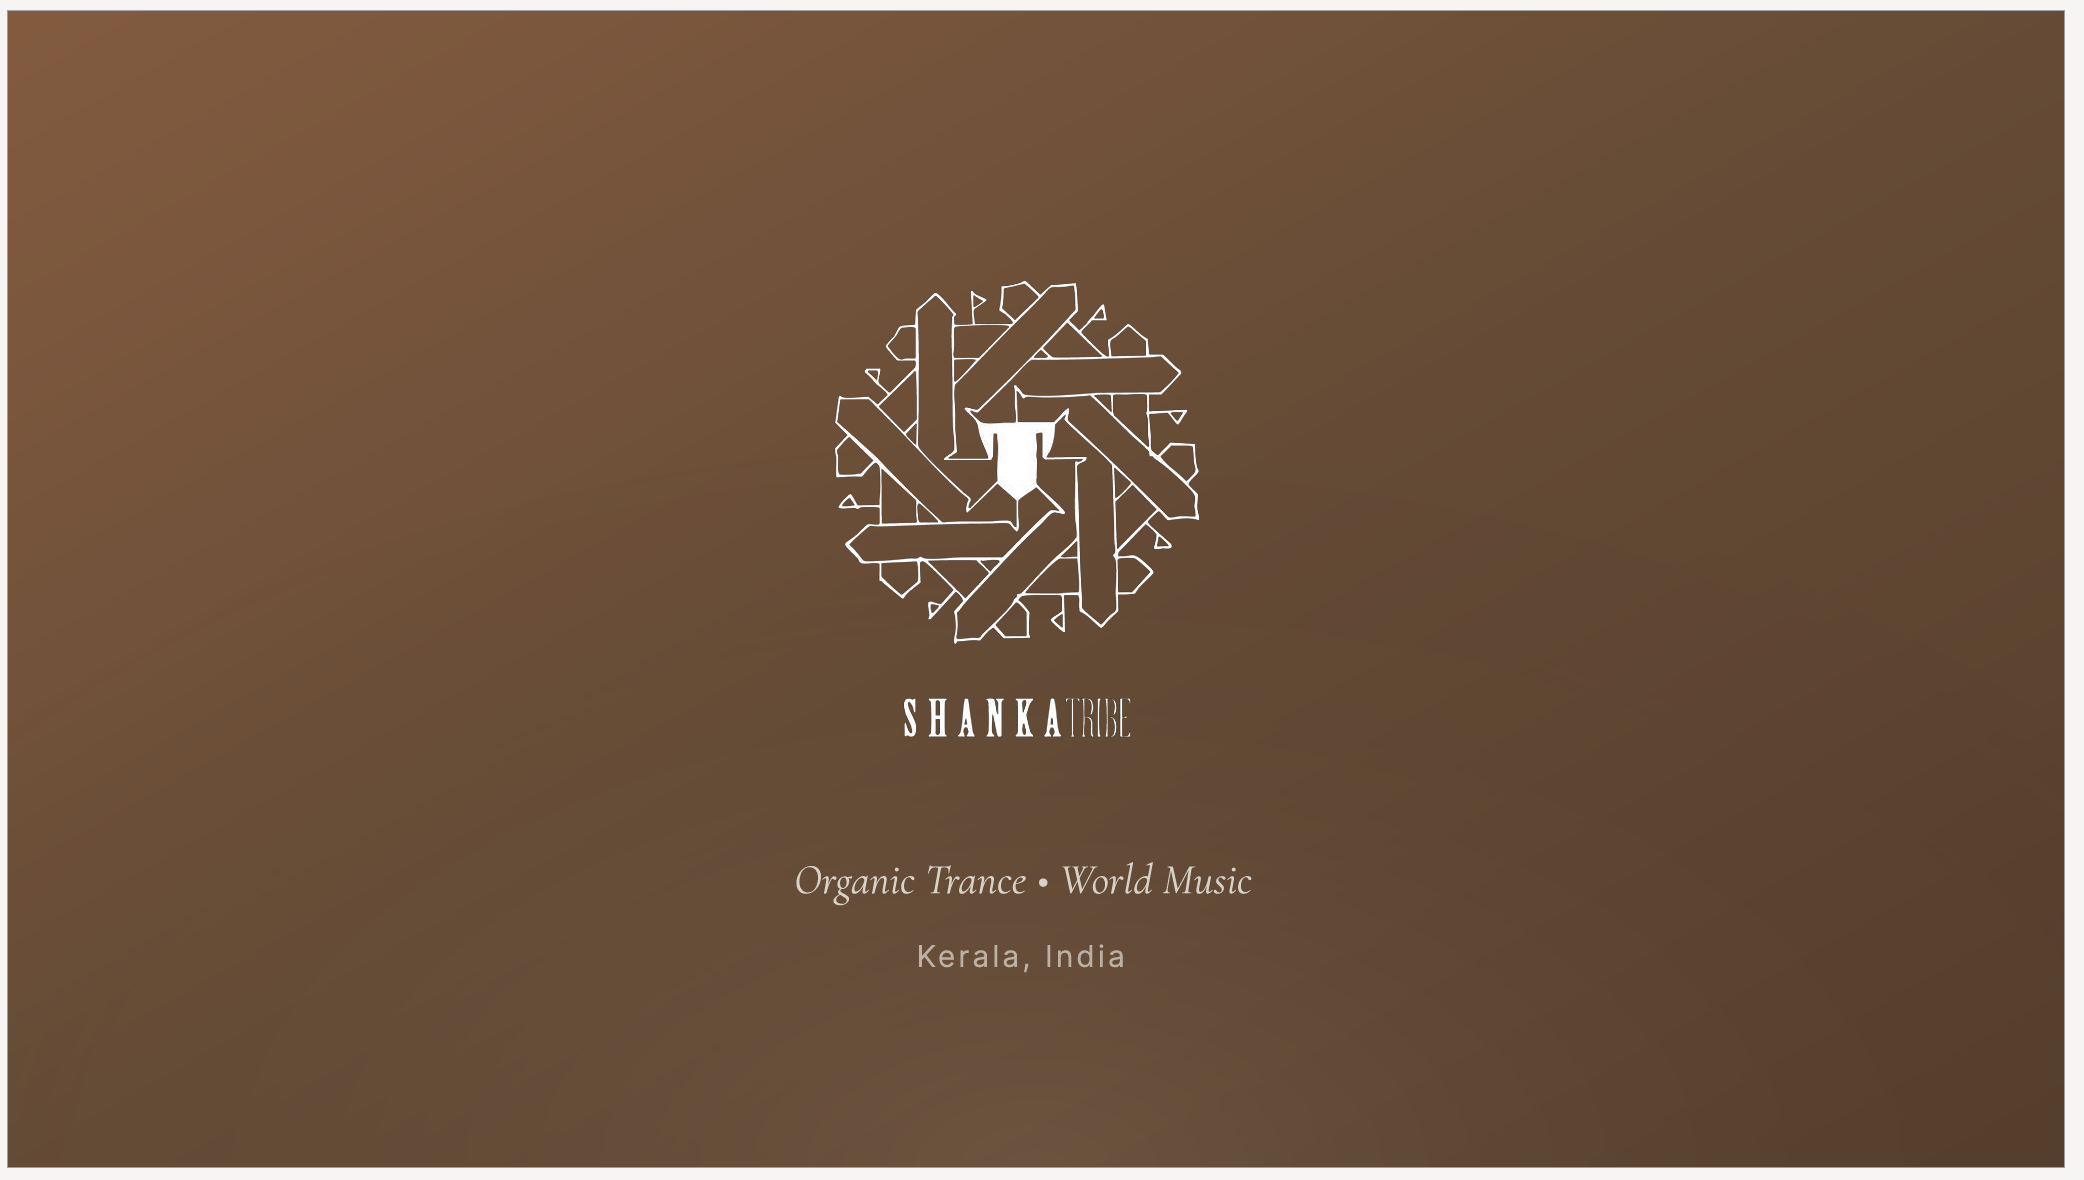
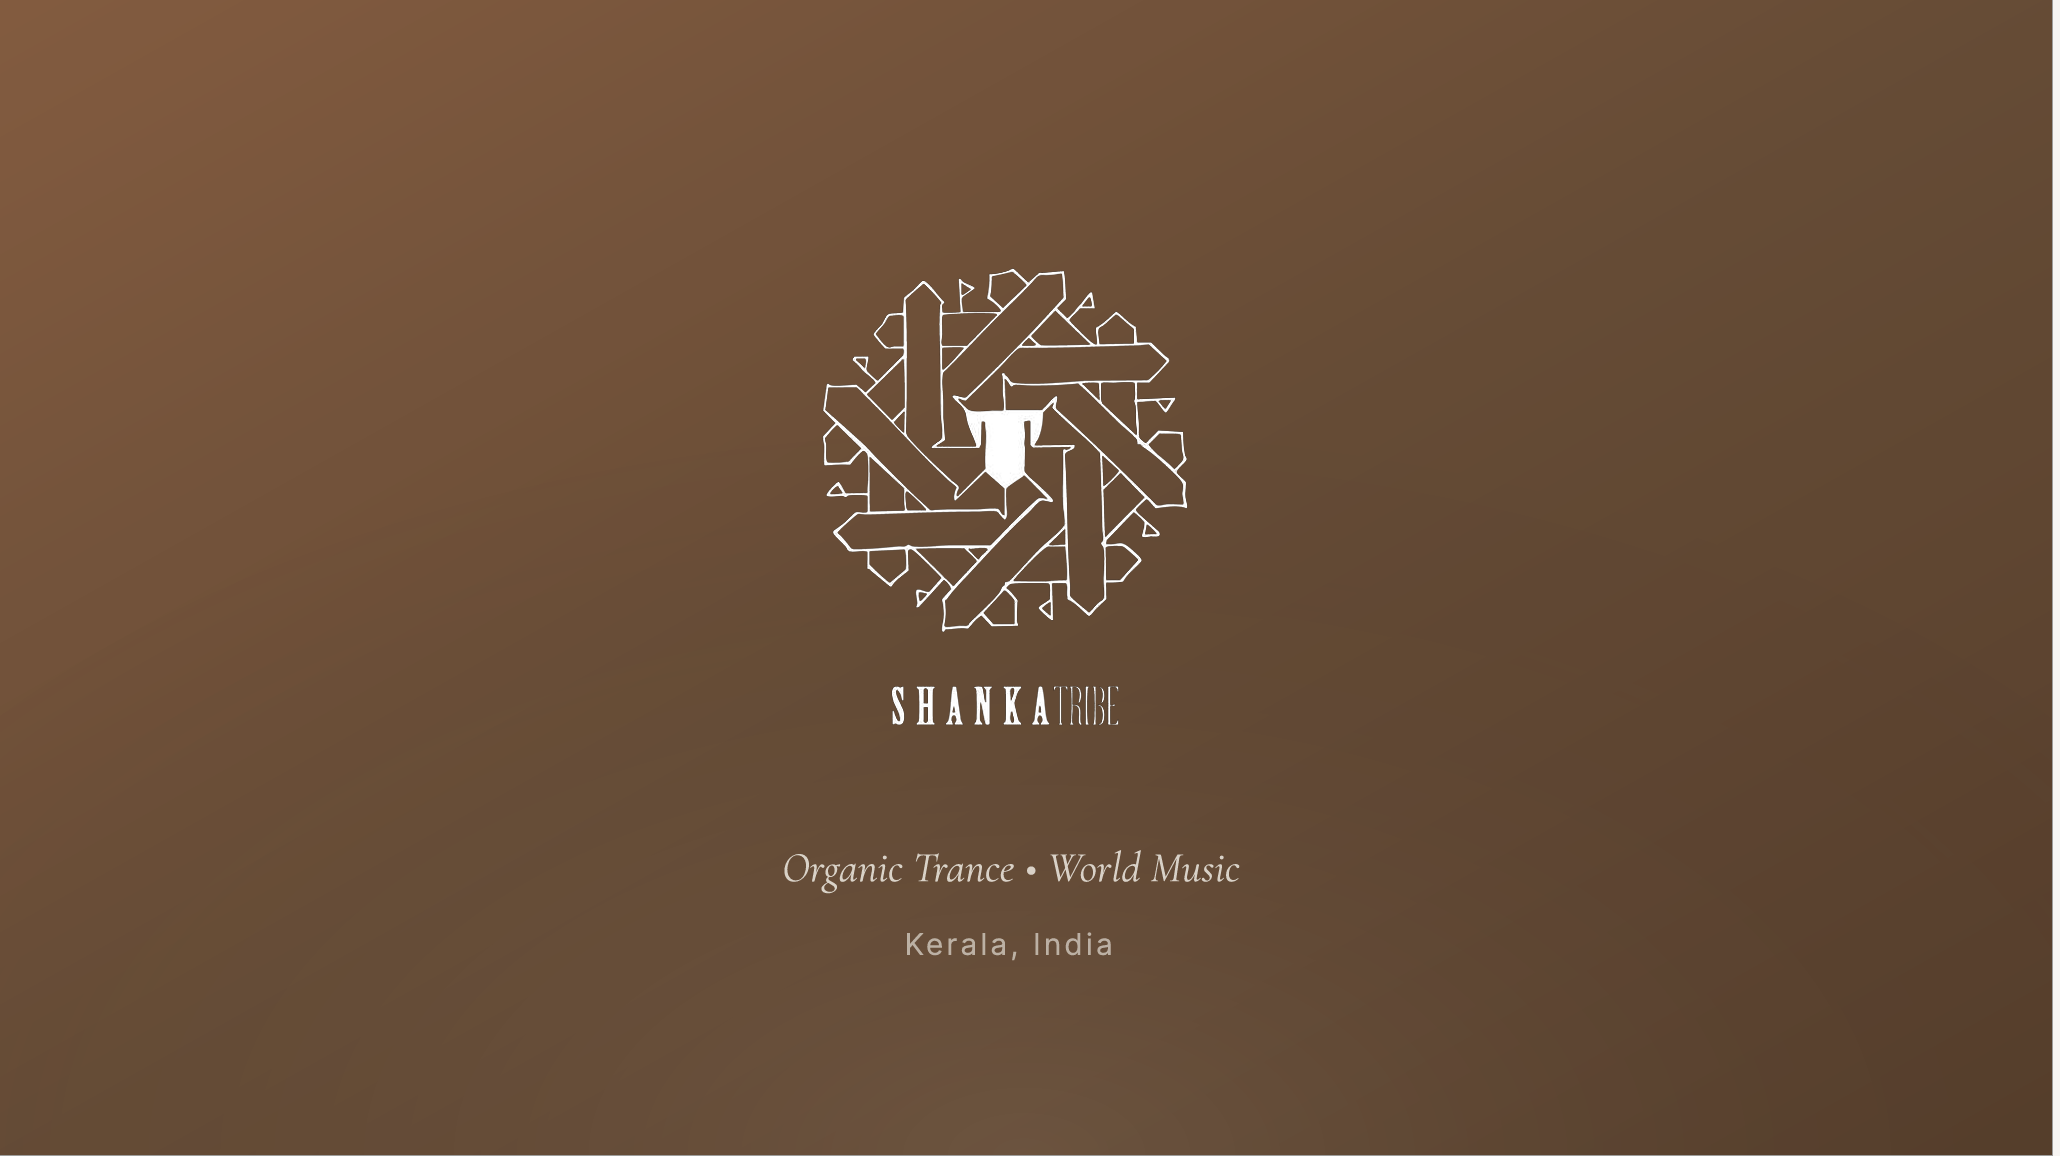
Fix white border on cover/closing image and invisible track numbers
- Cropped 12px from all edges of shanka-cover-closing.png to remove
  the off-white border (rgb 247,245,243) that was visible at the top
  and bottom of the cover and closing pages
- Track number color: #e8e8e8 (near-white, invisible on cream) -> #B8A08A
  (warm tan clearly visible against the cream background)

diff --git a/index.html b/index.html
@@ -335,7 +335,7 @@
 
         .track-number {
             font-size: 42px;
-            color: #e8e8e8;
+            color: #B8A08A;
             font-weight: 300;
             margin-bottom: 8px;
             font-family: 'EB Garamond', serif;